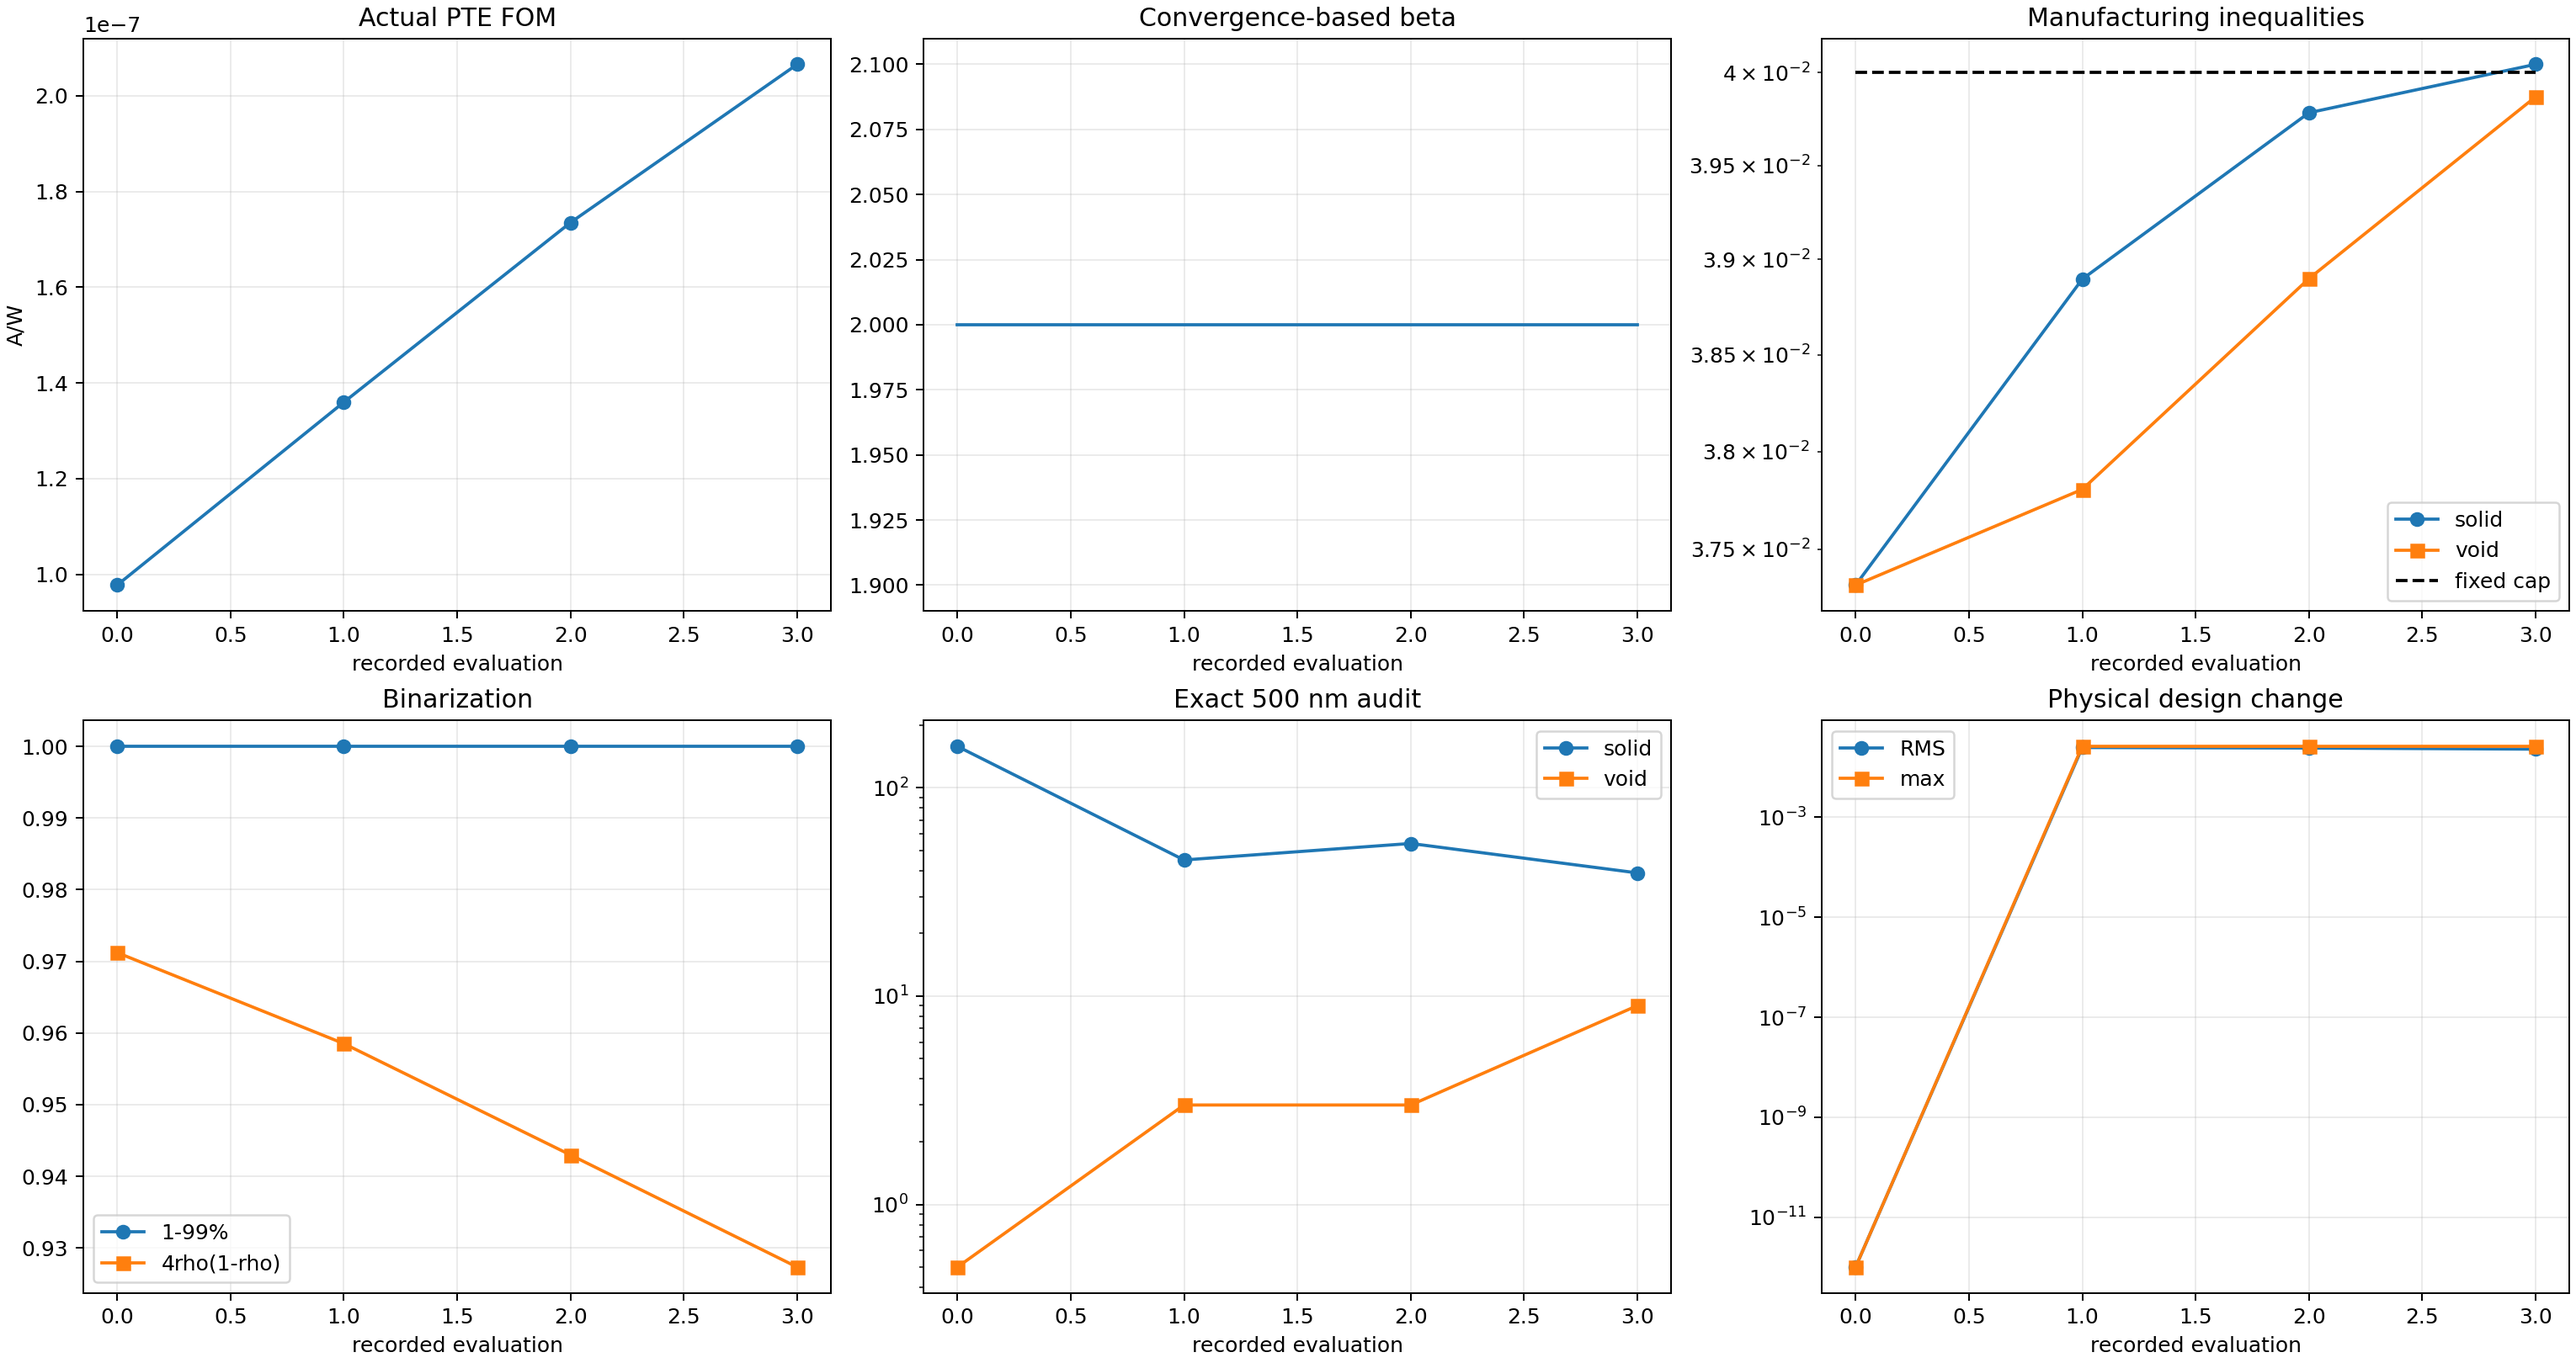
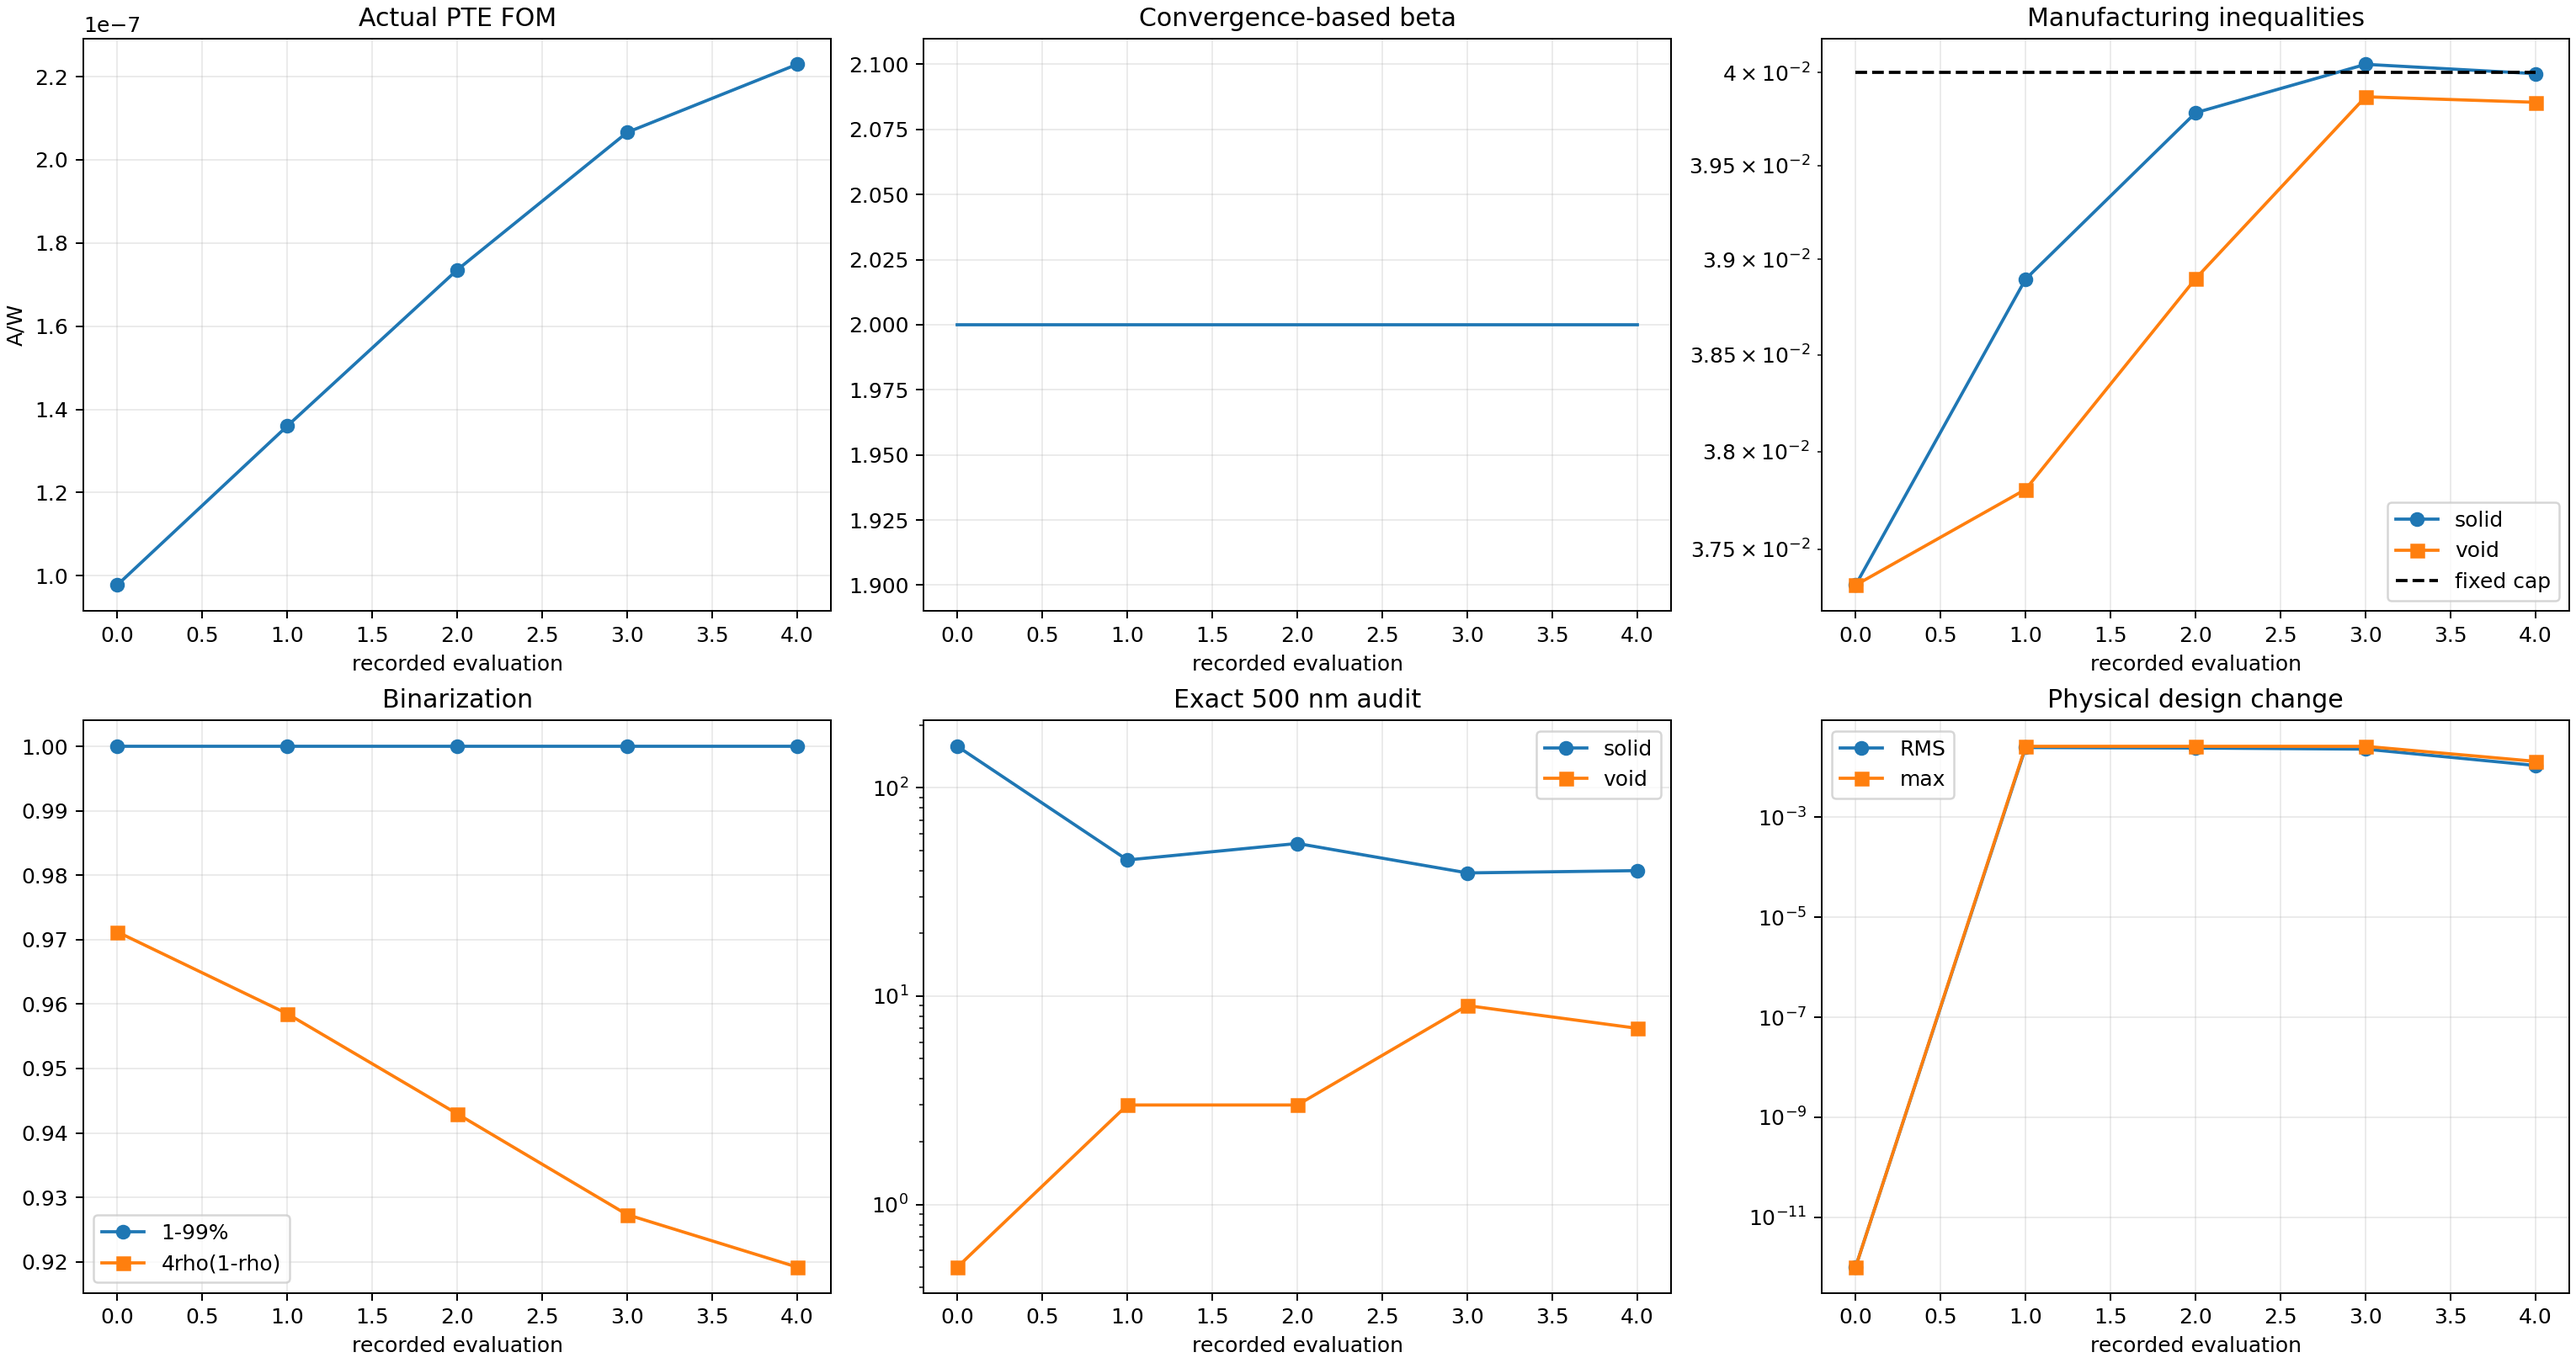
Record Run 003 run003_b002_s004_g004_accepted_mma

diff --git a/photothermal_pte/optimization_runs/run_003_gaussian10_w8p5_current_max_converged/results/OPTIMIZATION_REPORT.md b/photothermal_pte/optimization_runs/run_003_gaussian10_w8p5_current_max_converged/results/OPTIMIZATION_REPORT.md
@@ -2,10 +2,10 @@
 
 Status: `RUNNING_CONVERGENCE_BASED_CONSTRAINED_BETA_CONTINUATION`
 
-Current stage: beta=2, accepted stage iteration=3, global iteration=3.
+Current stage: beta=2, accepted stage iteration=4, global iteration=4.
 
-Actual FOM: `2.065945589255e-07 A/W`. Fixed-cap solid/void constraints: `4.004413e-02` / `3.986863e-02` with cap `4.000000e-02`.
+Actual FOM: `2.229516700099e-07 A/W`. Fixed-cap solid/void constraints: `3.999352e-02` / `3.983886e-02` with cap `4.000000e-02`.
 
-Exact 500 nm bad cells: solid `39`, void `9`. Stage convergence: `False` (need at least 10 accepted updates).
+Exact 500 nm bad cells: solid `40`, void `7`. Stage convergence: `False` (need at least 10 accepted updates).
 
 Beta is promoted only after fixed-inequality feasibility and a four-update FOM/design plateau; it is never promoted after one nominal update.
